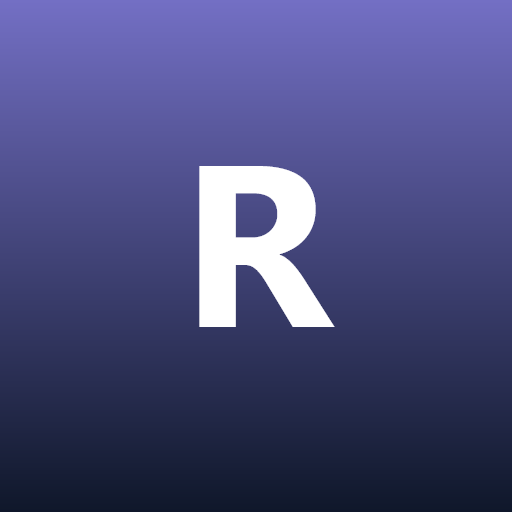
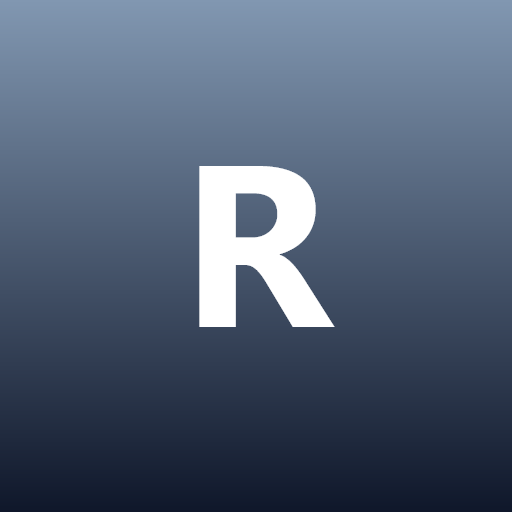
Add files via upload

diff --git a/index.html b/index.html
@@ -56,6 +56,22 @@
             transition: background-color 0.4s, color 0.4s;
         }
 
+        /* ستايل ساعة توقيت مصر */
+        .clock-display {
+            background-color: var(--panel);
+            color: var(--primary);
+            padding: 10px 25px;
+            border-radius: 20px;
+            font-size: 1.3rem;
+            font-weight: bold;
+            box-shadow: 0 4px 10px rgba(0,0,0,0.2);
+            margin-bottom: 20px;
+            direction: ltr;
+            transition: background-color 0.4s, color 0.4s;
+            z-index: 5;
+            letter-spacing: 1px;
+        }
+
         .container {
             background-color: var(--panel);
             padding: 3rem 2rem;
@@ -267,11 +283,30 @@
         });
       }
     </script>
+
+    <meta http-equiv="Cache-Control" content="no-cache, no-store, must-revalidate">
+    <meta http-equiv="Pragma" content="no-cache">
+    <meta http-equiv="Expires" content="0">
+    <link rel="manifest" href="./manifest.json?v=v1793543740280">
+    <meta name="theme-color" content="#8197b1">
+    <link rel="apple-touch-icon" href="./icon-192.png?v=v1793543740280">
+    <script>
+      if ('serviceWorker' in navigator) {
+        window.addEventListener('load', () => {
+          navigator.serviceWorker.register('./sw.js?v=v1793543740280')
+            .then(reg => console.log('SW Registered'))
+            .catch(err => console.log('SW Failed', err));
+        });
+      }
+    </script>
 </head>
 <body>
 
     <!-- زر تبديل المظاهر -->
     <button class="theme-btn" onclick="switchTheme()">تبديل المظهر 🎨</button>
+
+    <!-- ساعة توقيت مصر -->
+    <div id="egyptClock" class="clock-display">00:00:00 AM</div>
 
     <div class="container">
         
@@ -316,6 +351,22 @@
     <script src="https://cdn.jsdelivr.net/npm/@supabase/supabase-js@2"></script>
 
     <script>
+        // تحديث توقيت مصر الحي باللغة الإنجليزية
+        function updateEgyptClock() {
+            const options = {
+                timeZone: 'Africa/Cairo',
+                hour: '2-digit',
+                minute: '2-digit',
+                second: '2-digit',
+                hour12: true
+            };
+            const formatter = new Intl.DateTimeFormat('en-US', options);
+            const timeString = formatter.format(new Date());
+            document.getElementById('egyptClock').innerText = timeString;
+        }
+        setInterval(updateEgyptClock, 1000);
+        updateEgyptClock();
+
         // إعدادات سيرفر Supabase الخاص بك
         const supabaseUrl = 'https://smnpkmlqbihoyebwbtqj.supabase.co';
         const supabaseKey = 'sb_publishable_P3-KB6jY-RAqwDx2106oYQ_pLGVSC8V';

diff --git a/offline.html b/offline.html
@@ -5,9 +5,9 @@
     <meta name="viewport" content="width=device-width, initial-scale=1.0">
     <title>لا يوجد اتصال بالإنترنت</title>
     <style>
-        body { margin: 0; display: flex; flex-direction: column; align-items: center; justify-content: center; height: 100vh; font-family: system-ui, sans-serif; text-align: center; background-color: #736fc4; color: white; }
+        body { margin: 0; display: flex; flex-direction: column; align-items: center; justify-content: center; height: 100vh; font-family: system-ui, sans-serif; text-align: center; background-color: #8197b1; color: white; }
         .icon { font-size: 4rem; margin-bottom: 20px; }
-        button { margin-top: 30px; padding: 12px 24px; font-size: 1rem; cursor: pointer; border: none; border-radius: 8px; background-color: white; color: #736fc4; font-weight: bold; box-shadow: 0 4px 6px rgba(0,0,0,0.1); }
+        button { margin-top: 30px; padding: 12px 24px; font-size: 1rem; cursor: pointer; border: none; border-radius: 8px; background-color: white; color: #8197b1; font-weight: bold; box-shadow: 0 4px 6px rgba(0,0,0,0.1); }
     </style>
 </head>
 <body>

diff --git a/sw.js b/sw.js
@@ -1,5 +1,5 @@
-const CACHE_NAME = 'pwa-cache-v1793538858082';
-const urlsToCache = [ './', './index.html?v=v1793538858082', './offline.html?v=v1793538858082', './icon-192.png?v=v1793538858082', './icon-512.png?v=v1793538858082', './manifest.json?v=v1793538858082' ];
+const CACHE_NAME = 'pwa-cache-v1793543740280';
+const urlsToCache = [ './', './index.html?v=v1793543740280', './offline.html?v=v1793543740280', './icon-192.png?v=v1793543740280', './icon-512.png?v=v1793543740280', './manifest.json?v=v1793543740280' ];
 
 self.addEventListener('install', event => {
   event.waitUntil(
@@ -29,7 +29,7 @@ self.addEventListener('fetch', event => {
       .then(response => {
         return response || fetch(event.request).catch(() => {
           if (event.request.mode === 'navigate') {
-            return caches.match('./offline.html?v=v1793538858082');
+            return caches.match('./offline.html?v=v1793543740280');
           }
         });
       })
